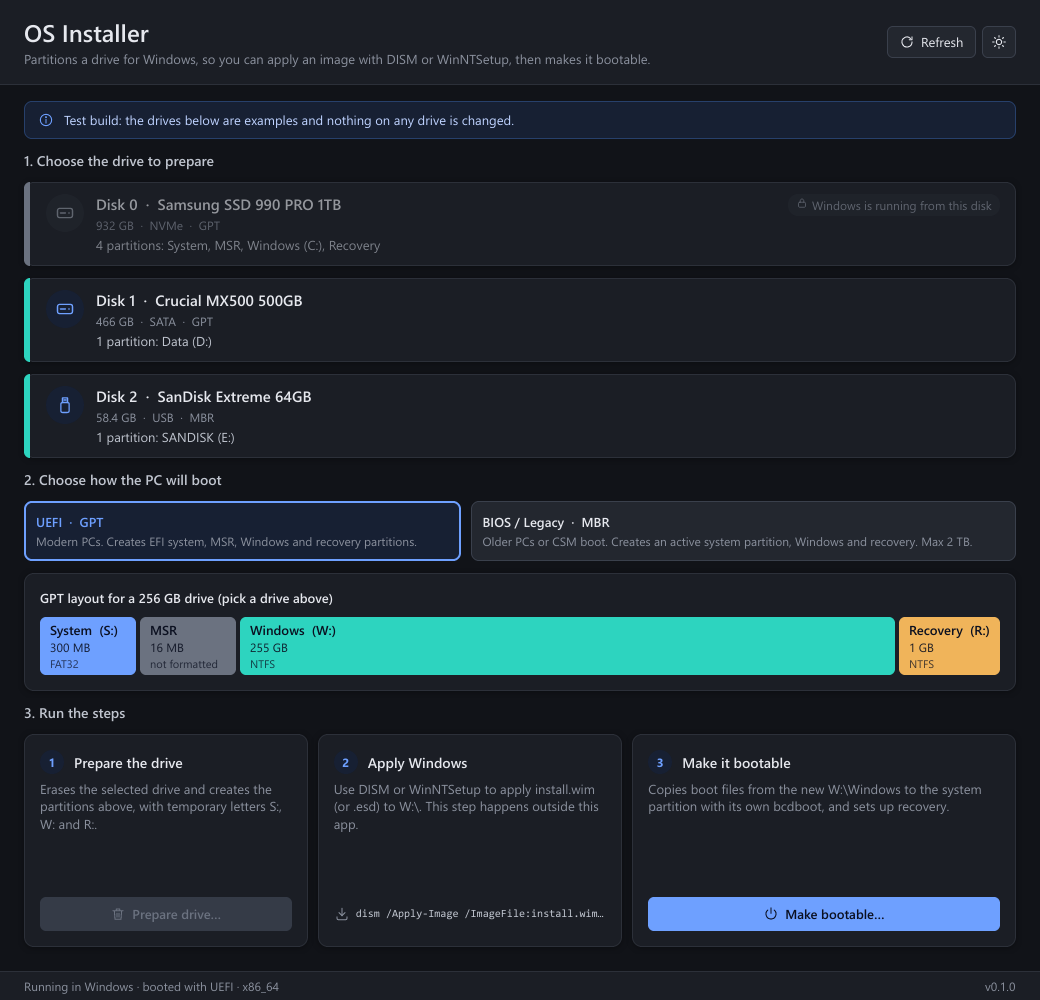
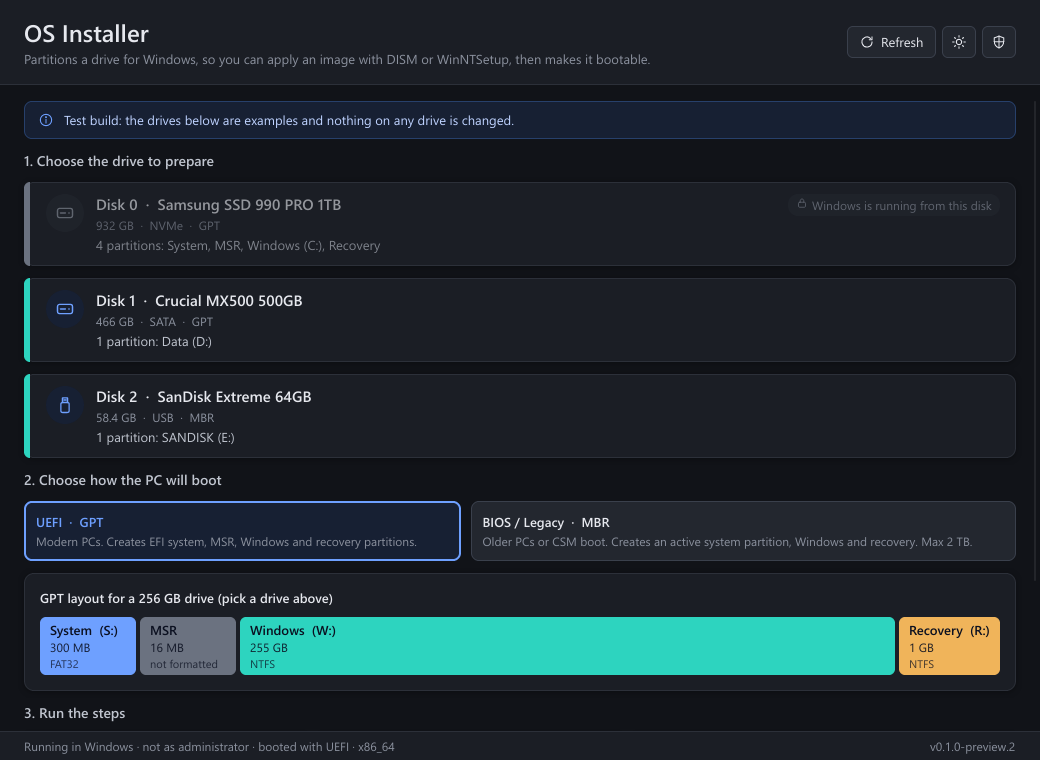
Describe the Run as administrator button; update screenshots for 0.1.0-preview.2

diff --git a/README.md b/README.md
@@ -48,7 +48,11 @@ os-installer plan --firmware uefi --size-gb 476
 os-installer --help
 ```
 
-`env` says whether it is running in Windows or WinPE and how the PC booted (UEFI or BIOS). `plan` shows the partitions it would create on a drive of that size, without touching anything.
+`env` says whether it is running in Windows or WinPE, whether it is running as administrator, and how the PC booted (UEFI or BIOS). `plan` shows the partitions it would create on a drive of that size, without touching anything.
+
+## Run as administrator
+
+Partitioning a drive needs administrator rights. When the app is not running as administrator, the shield button at the top right restarts it through the Windows UAC prompt; answering No leaves it running as it was. The button is hidden once it is elevated, and in WinPE, which always runs as administrator.
 
 ## Light and dark
 
